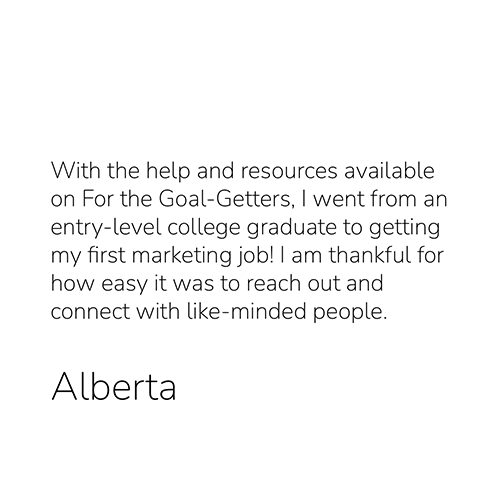
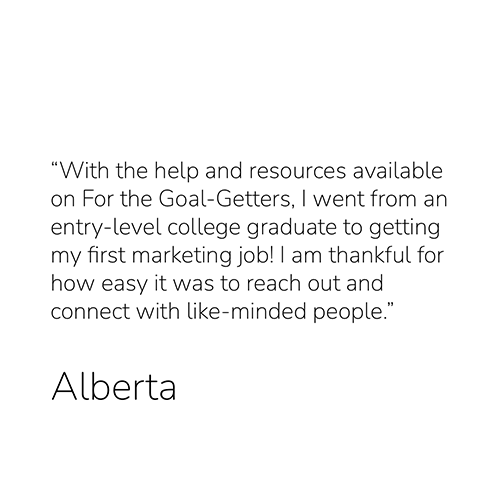
update validator changes and lightbox image

Changed region(s): [[0.09, 0.3, 0.9, 0.36]]

diff --git a/index.html b/index.html
@@ -79,8 +79,9 @@
               <div class="learn-more">
                 <a href="work-with-me.html" target="_blank">Learn More</a>
               </div>
-            </div>
+            </section>
           </div>
+        </div>
 
         <section class="home-contact">
           <h3>Let's connect, create and collaborate.</h3>
@@ -106,12 +107,11 @@
               <textarea name="comments" id="comments" cols="55" rows="15" placeholder="Leave a message."></textarea>
             </div>
 
-            <div class="submit">
-              <input type="submit" value="Get in Touch"/>
-            </div>
-          </form>
-        </section>
-      </div>
+          <div class="submit">
+            <input type="submit" value="Get in Touch"/>
+          </div>
+        </form>
+      </section>
     </main>
 
     <footer>

diff --git a/contact.html b/contact.html
@@ -81,7 +81,6 @@
         <a href="images/albert-testimonial.png" data-lightbox="testimonials" data-title="Albert - Gainesville, FL"><img src="images/albert-testimonial.png" alt="albert testimonial" title="albert testimonial" /></a>
 
         <a href="images/efren-testimonial.png" data-lightbox="testimonials" data-title="Efren - Gainesville, FL"><img src="images/efren-testimonial.png" alt="efren testimonial" title="efren testimonial" /></a>
-
     </main>
 
     <footer>

diff --git a/css/styles.css b/css/styles.css
@@ -13,6 +13,7 @@ Font Styling
 @font-face{
   font-family: "RetroSignature";
   src: url('../fonts/RetroSignature.otf')
+  format('truetype');
 }
 
 h1,
@@ -122,7 +123,6 @@ Hero Styling
   margin: 0 100px 0 0;
 }
 
-.
 .contact-hero-section {
   background: #f8f7f2;
   padding: 100px 0 300px 0;
@@ -301,7 +301,7 @@ Blog Styling
 }
 
 .article {
-  width: 500px;
+  width: 600px;
   display: inline-block;
   padding: 50px;
   margin-bottom: 50px;

diff --git a/form/error.inc.php b/form/error.inc.php
@@ -14,6 +14,7 @@
   @font-face{
     font-family: "RetroSignature";
     src: url('../fonts/RetroSignature.otf')
+    format('truetype');
   }
 
   h1,
